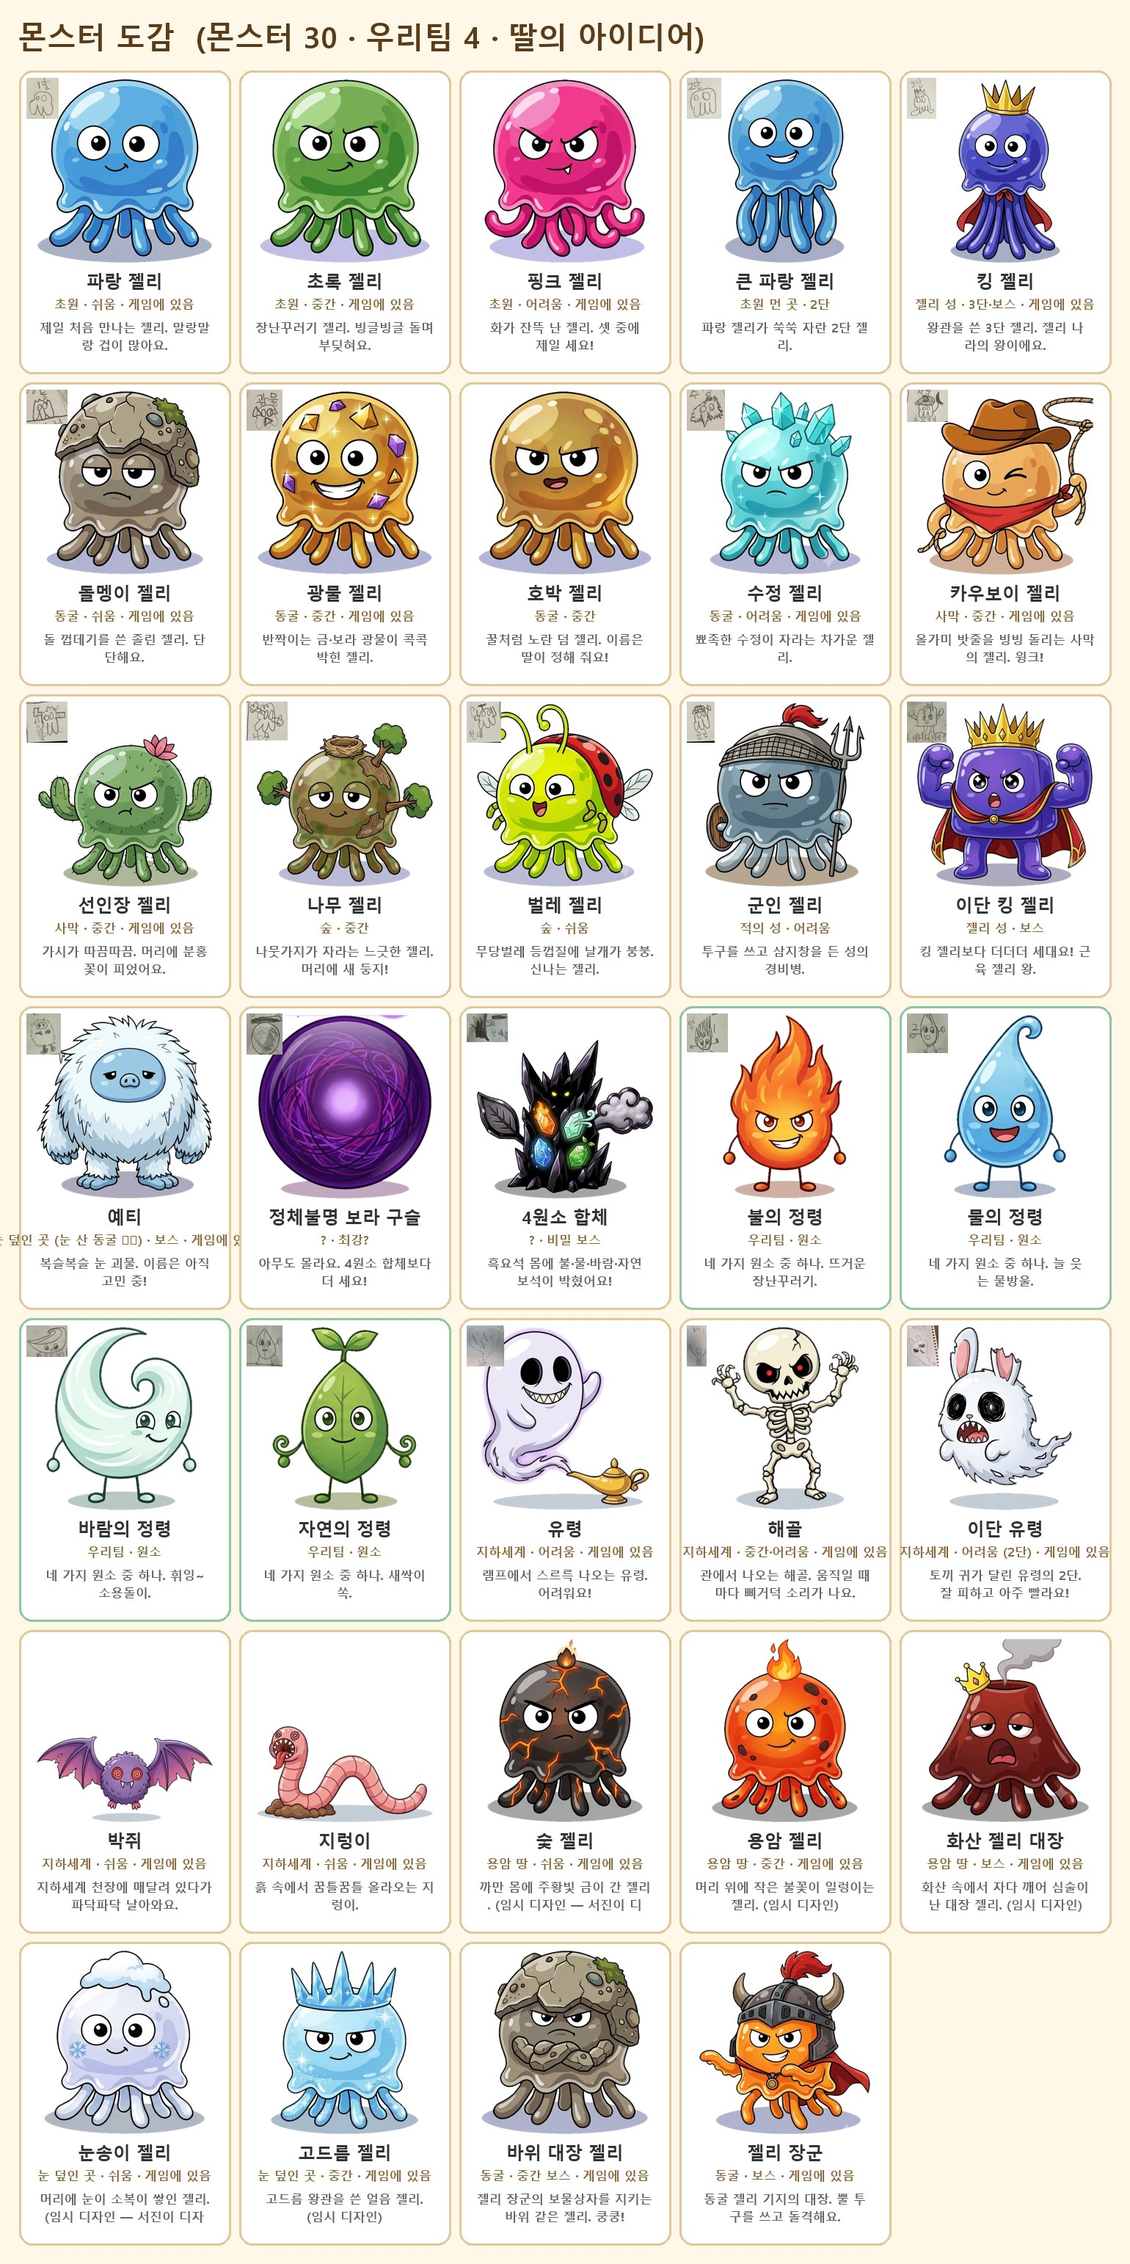
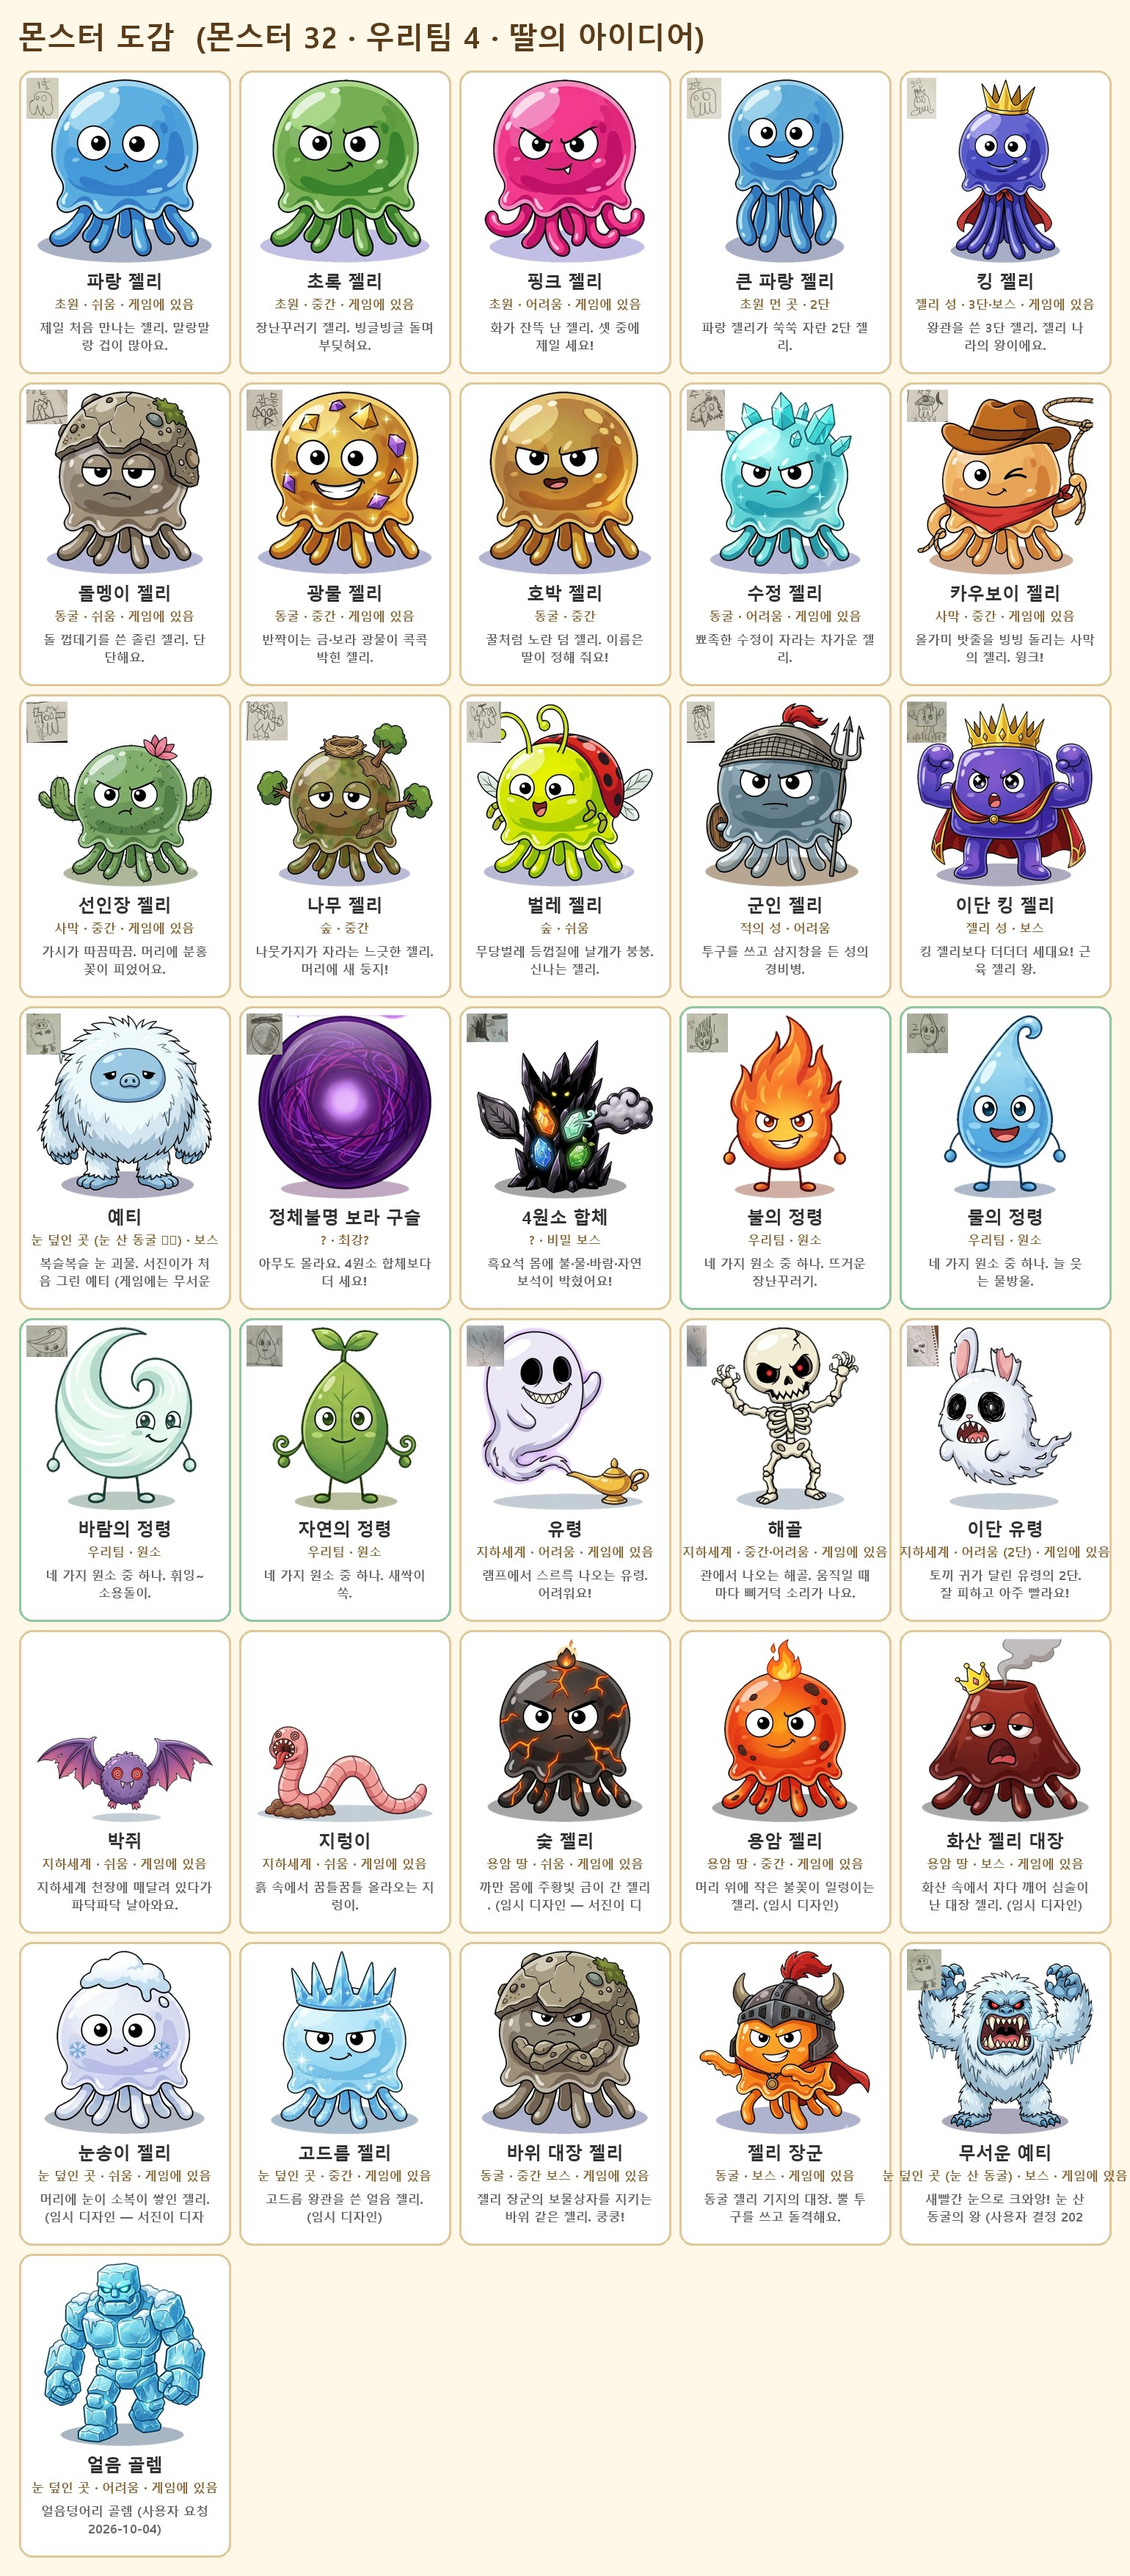
Q-20~22 무서운 예티(이야기 포함)·얼음 골렘 추가, 문서 정리

diff --git a/unity/GirlAdventure/Assets/Editor/SmokeTest.cs b/unity/GirlAdventure/Assets/Editor/SmokeTest.cs
@@ -566,9 +566,9 @@ namespace GirlAdventure.EditorTools
             var reach = Reach(m, WorldMap.SnowStart);
             var boss = GameData.SnowBoss;
             Check("yeti: door below the snow peak, reachable, data + art", m.At(b.x, b.y) == 'B' && reach[b.x, b.y] && m.At(b.x, b.y - 1) == 'K'
-                  && boss != null && boss.Boss && boss.Art == "yeti" && boss.Backdrop == "snow_boss" && Resources.Load<Texture2D>("Monsters/yeti") != null
+                  && boss != null && boss.Boss && boss.Art == "yeti_scary" && boss.Backdrop == "snow_boss" && Resources.Load<Texture2D>("Monsters/yeti_scary") != null
                   && Resources.Load<Texture2D>("Battle/snow_boss") != null,
-                  $"tile {m.At(b.x, b.y)} reach {reach[b.x, b.y]} above {m.At(b.x, b.y - 1)} boss {boss?.Name} art {boss?.Art} bg {boss?.Backdrop} tex {Resources.Load<Texture2D>("Monsters/yeti") != null}/{Resources.Load<Texture2D>("Battle/snow_boss") != null}");
+                  $"tile {m.At(b.x, b.y)} reach {reach[b.x, b.y]} above {m.At(b.x, b.y - 1)} boss {boss?.Name} art {boss?.Art} bg {boss?.Backdrop} tex {Resources.Load<Texture2D>("Monsters/yeti_scary") != null}/{Resources.Load<Texture2D>("Battle/snow_boss") != null}");
             var p = PlayerState.NewGame("t"); p.Boss5Down = true; p.Chapter = 5;
             var q = PlayerState.FromSave(JsonUtility.FromJson<SaveData>(JsonUtility.ToJson(p.ToSave())));
             Check("boss5 saved (v15), snow elder thanks", SaveData.CurrentVersion >= 15 && q.Boss5Down
@@ -656,7 +656,7 @@ namespace GirlAdventure.EditorTools
         static void SnowJellyTests()
         {
             var snow = GameData.Snow;
-            Check("snow jellies (placeholder): 3 incl. tier 2, frost/icicle looks, in the bestiary", snow.Length == 3 && Array.Exists(snow, d => d.Tier == 2)
+            Check("snow monsters: 3 jellies (placeholder, incl. tier 2) + ice golem, frost/icicle looks, in the bestiary", snow.Length == 4 && Array.Exists(snow, d => d.Name == "얼음 골렘") && Array.Exists(snow, d => d.Tier == 2)
                   && Array.Exists(snow, d => d.Look == "frost") && Array.Exists(snow, d => d.Look == "icicle") && GameData.ListFor(MapKind.Snow) == snow
                   && Array.TrueForAll(snow, d => Array.IndexOf(EnemyDef.Looks, d.Look) >= 0));
             var m = WorldMap.Snow();

diff --git a/docs/lore/story.md b/docs/lore/story.md
@@ -13,7 +13,7 @@
 | 2 끝 | — | **+ 지훈 합류** ⭐ | 동생 지훈(용사)이 동료가 됨 | 있음 |
 | 3 | **사막 마을** ⭐ | 서진 + 지훈 | 동생과 함께 사막 마을 모험 (카우보이·선인장 젤리). **3스테이지 마법사**가 보낸 말이 담긴 **편지**를 읽으면 퀘스트 시작 ⭐(노트 3) — 편지: 테스트 버전에 있음 (사막 출발 자리 옆, 보낸 이 = "사막의 마법사" ✏, 내용 "물이 사라져요, 남쪽 모래 회오리를 찾아 주세요" ✏ — 🙋 마법사가 우리 편인지·누구인지는 서진이에게), 오아시스 마을·카우보이 젤리 대장 ✏ | 있음 |
 | 4 | **용암 땅** ⭐(사용자 2026-10-03) | 서진 + 지훈 **+ 아빠** | **챕터 4 를 시작할 때 아빠(기사)가 합류** ⭐(사용자 2026-10-03). 온천 마을 ✏, 숯·용암 젤리 ✏, 화산 젤리 대장(낮잠을 깨워 심술) ✏ | 있음 |
-| 5 | **눈 덮인 곳** ⭐(서진이 2026-10-03) | 서진 + 지훈 + 아빠 (+ 엄마? 시점 미정) | 예티 ⭐ — 테스트 버전 ✏: 눈꽃 마을, 눈송이·고드름 젤리, 언 호수 미끄럼, 보스 예티는 "혼자 외로워서 울었더니 눈보라가 멈추지 않았다" → 가족과 친구가 됨 (🙋 서진이 확인) | 있음 |
+| 5 | **눈 덮인 곳** ⭐(서진이 2026-10-03) | 서진 + 지훈 + 아빠 (+ 엄마? 시점 미정) | 예티 ⭐ — 테스트 버전 ✏: 눈꽃 마을, 눈송이·고드름 젤리, 언 호수 미끄럼, 보스는 **무서운 예티** ⭐(사용자 2026-10-04): 눈 산 동굴의 왕, 새빨간 눈으로 마을을 얼리려다 지고 동굴 깊이 도망 → 눈보라가 그침. **얼음 골렘** ⭐(사용자 2026-10-04)도 눈 덮인 땅에 나옴 | 있음 |
 | 6 이후 ✏ | 숲, 적의 성, … | + 엄마 (시점 미정) | 나무·벌레 젤리, 군인 젤리, 이단 킹 젤리 | — |
 | 끝 무렵 ✏ | ? | 가족 4명 | 정체불명 등장 → 4원소 합체로 밝혀짐 → 보라 구슬 | — |
 
@@ -21,4 +21,5 @@
 - 2026-09-27 시작 (챕터 2 뒤 지훈 합류, 챕터 3 사막 마을, 주인공 서진)
 - 2026-10-03 사용자: 챕터 4 는 **용암 땅**, 챕터 4 시작 때 **아빠 합류**
 - 2026-10-03 서진이(시험 플레이 메모): 챕터 5 는 **눈 덮인 곳**
+- 2026-10-04 사용자: 예티는 **무서운 예티**, **얼음 골렘** 추가
 - 2026-10-04 테스트 버전에 챕터 4·5 구현 (✏ 부분은 서진이에게 확인할 것 — PLAYTEST_NOTE 🙋 7·8)

diff --git a/docs/lore/open_questions.md b/docs/lore/open_questions.md
@@ -8,7 +8,7 @@
 - [ ] 보라 구슬은 어디서 왔을까? (서진이도 모름 — 나중에 떠오르면)
 
 ## 몬스터
-- [ ] 예티 이름, 사는 곳 (테스트 버전 ✏: 눈 덮인 곳 북동쪽 눈 산 동굴), 성격 (✏ 외로워서 눈보라를 일으킨 착한 예티)
+- [ ] 예티 이름, 사는 곳 (테스트 버전 ✏: 눈 덮인 곳 북동쪽 눈 산 동굴), 성격 → ⭐ 무서운 예티 (사용자 2026-10-04), 이름은 아직
 - [ ] 덤으로 나온 노란 **호박 젤리**의 이름과 역할
 - [ ] 4원소 합체에게 이름을 붙여 줄까?
 

diff --git a/docs/PLAYTEST_NOTE.md b/docs/PLAYTEST_NOTE.md
@@ -77,5 +77,5 @@
 5. 다음 챕터는 어디로 갈까? 숲 / 적의 성 / 눈 덮인 곳
 눈 덮인 곳
 6. 아빠 기술 이름 (지금은 "기사의 검"·"지키기"), 엄마는 언제 합류할까?
-7. **예티**: 이름은? 지금은 "혼자 외로워서 눈보라를 일으킨 착한 예티" ✏ — 이대로 좋아, 무서운 예티가 좋아?
+7. **예티**: 이름은? (성격은 정해짐: 무서운 예티 ⭐ 2026-10-04)
 8. 눈 덮인 곳 괴물 (지금은 임시 눈송이 젤리·고드름 젤리), 눈꽃 마을 이름
